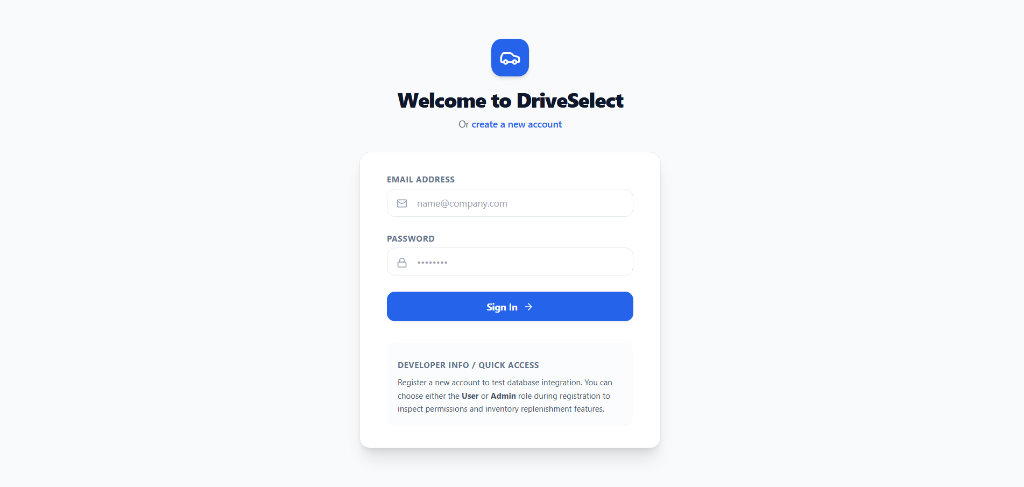
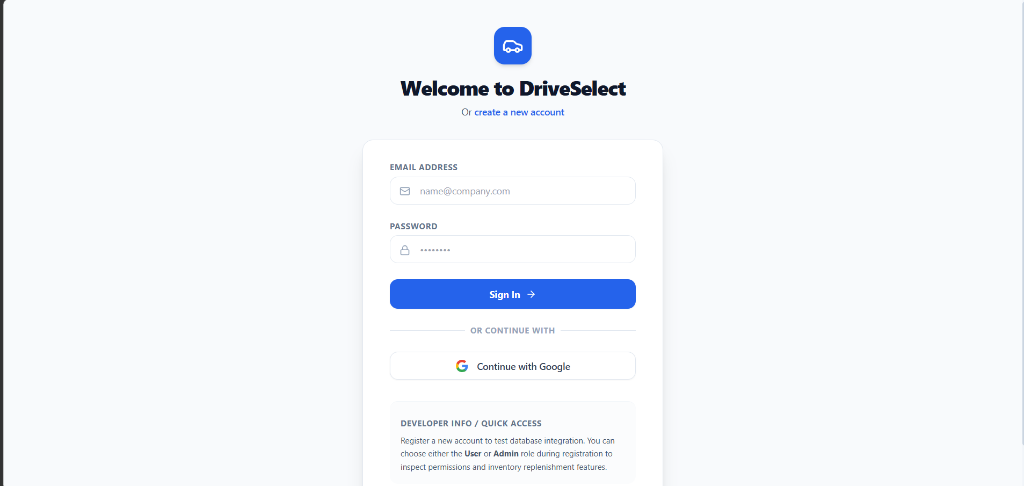
docs: Update login and register screenshots with Google Auth options
Replaced the old login/register mockups with screenshots of the live forms showing the Continue with Google buttons.

diff --git a/README.md b/README.md
@@ -29,8 +29,11 @@ DriveSelect is a full-stack Car Dealership Inventory System built with clean Typ
 ### 1. Main Dashboard & Inventory Showcase
 ![Main Dashboard UI](./screenshots/dashboard.png)
 
-### 2. Registration & Auth Screen (with Standard/Admin selector)
-![Login & Registration UI](./screenshots/login.png)
+### 2. Login Screen (with Google Sign-In Sandbox option)
+![Login Screen UI](./screenshots/login.png)
+
+### 3. Registration Screen (with Standard/Admin role selector)
+![Registration Screen UI](./screenshots/register.png)
 
 ---
 